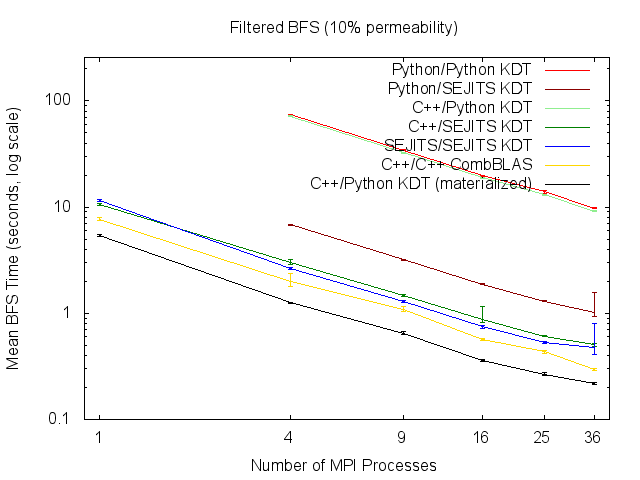
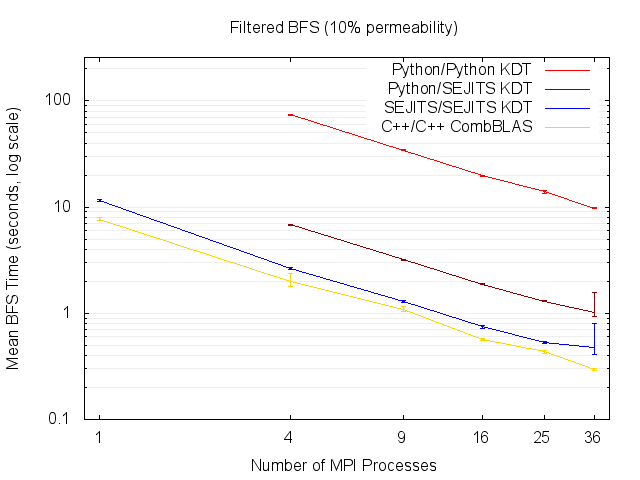
made plots log log and added gridlines

Changed region(s): [[0.5312, 0.1875, 0.8438, 0.4062], [0.75, 0.6562, 0.7812, 0.6875], [0.4375, 0.5312, 0.4688, 0.5625]]

diff --git a/sandbox/AnalyzeIPDPS.py b/sandbox/AnalyzeIPDPS.py
@@ -15,11 +15,11 @@ if sys.argv[1] == "bfs":
 	
 	experiments = [("PythonSR_PythonFilter_OTF", "Python/Python KDT", "#FF0000"), # red (kinda light)
 		("PythonSR_SejitsFilter_OTF", "Python/SEJITS KDT", "#8B0000"), # dark red
-		("C++SR_PythonFilter_OTF", "C++/Python KDT", "#90EE90"), # light green
-		("C++SR_SejitsFilter_OTF", "C++/SEJITS KDT", "#008000"), # green (but it's dark)
+#		("C++SR_PythonFilter_OTF", "C++/Python KDT", "#90EE90"), # light green
+#		("C++SR_SejitsFilter_OTF", "C++/SEJITS KDT", "#008000"), # green (but it's dark)
 		("SejitsSR_SejitsFilter_OTF", "SEJITS/SEJITS KDT", "#0000FF"), # blue (but it's dark)
-		("CombBLAS_OTF", "C++/C++ CombBLAS", "#FFD700"), # gold
-		("C++SR_PythonFilter_Mat", "C++/Python KDT (materialized)", "#000000")] # black
+		("CombBLAS_OTF", "C++/C++ CombBLAS", "#FFD700")] # gold
+#		("C++SR_PythonFilter_Mat", "C++/Python KDT (materialized)", "#000000")] # black
 	
 	# ID will be replaced by strings from experiments array
 	experiment_varieties = ["mean_IDtime", "min_IDtime", "max_IDtime"]
@@ -27,7 +27,6 @@ if sys.argv[1] == "bfs":
 	result_type = "BFS"
 	
 	def parseCombBLAS(data):
-		return
 		for line in open(combblas_file, 'r'):
 			feats = line.split("\t")
 			core = int(feats[0])
@@ -143,6 +142,7 @@ if doFilterGrid:
 		gnuplot += 'set yrange [0.1:256]\n'
 		gnuplot += 'set logscale y\n'
 		gnuplot += 'set logscale x\n'
+		gnuplot += 'set grid ytics mytics lt 1 lc rgb "#EEEEEE"\n'
 		gnuplot += "set xlabel 'Number of MPI Processes'\n"
 		gnuplot += "set ylabel 'Mean %s Time (seconds, log scale)'\n"%(result_type)
 		
@@ -195,8 +195,10 @@ if doFilterEffects:
 	gnuplot += 'set xrange [-5:105]\n'
 	gnuplot += 'set yrange [0.1:32]\n'
 	gnuplot += 'set logscale y\n'
+	gnuplot += 'set grid ytics mytics lt 1 lc rgb "#EEEEEE"\n'
 	gnuplot += "set xlabel 'Filter Permeability'\n"
 	gnuplot += "set ylabel 'Mean %s Time (seconds, log scale)'\n"%(result_type)
+	gnuplot += "set key right bottom\n"
 	
 	xtics = ""
 	cc = filters
@@ -205,7 +207,7 @@ if doFilterEffects:
 			comma = ", "
 		else:
 			comma = ""
-		xtics += "'%d' %d%s"%(cc[i], cc[i], comma)
+		xtics += "'%d%%%%' %d%s"%(cc[i], cc[i], comma)
 	
 	gnuplot += "set xtics (%s)\n"%xtics
 	gnuplot += 'plot\\\n'
